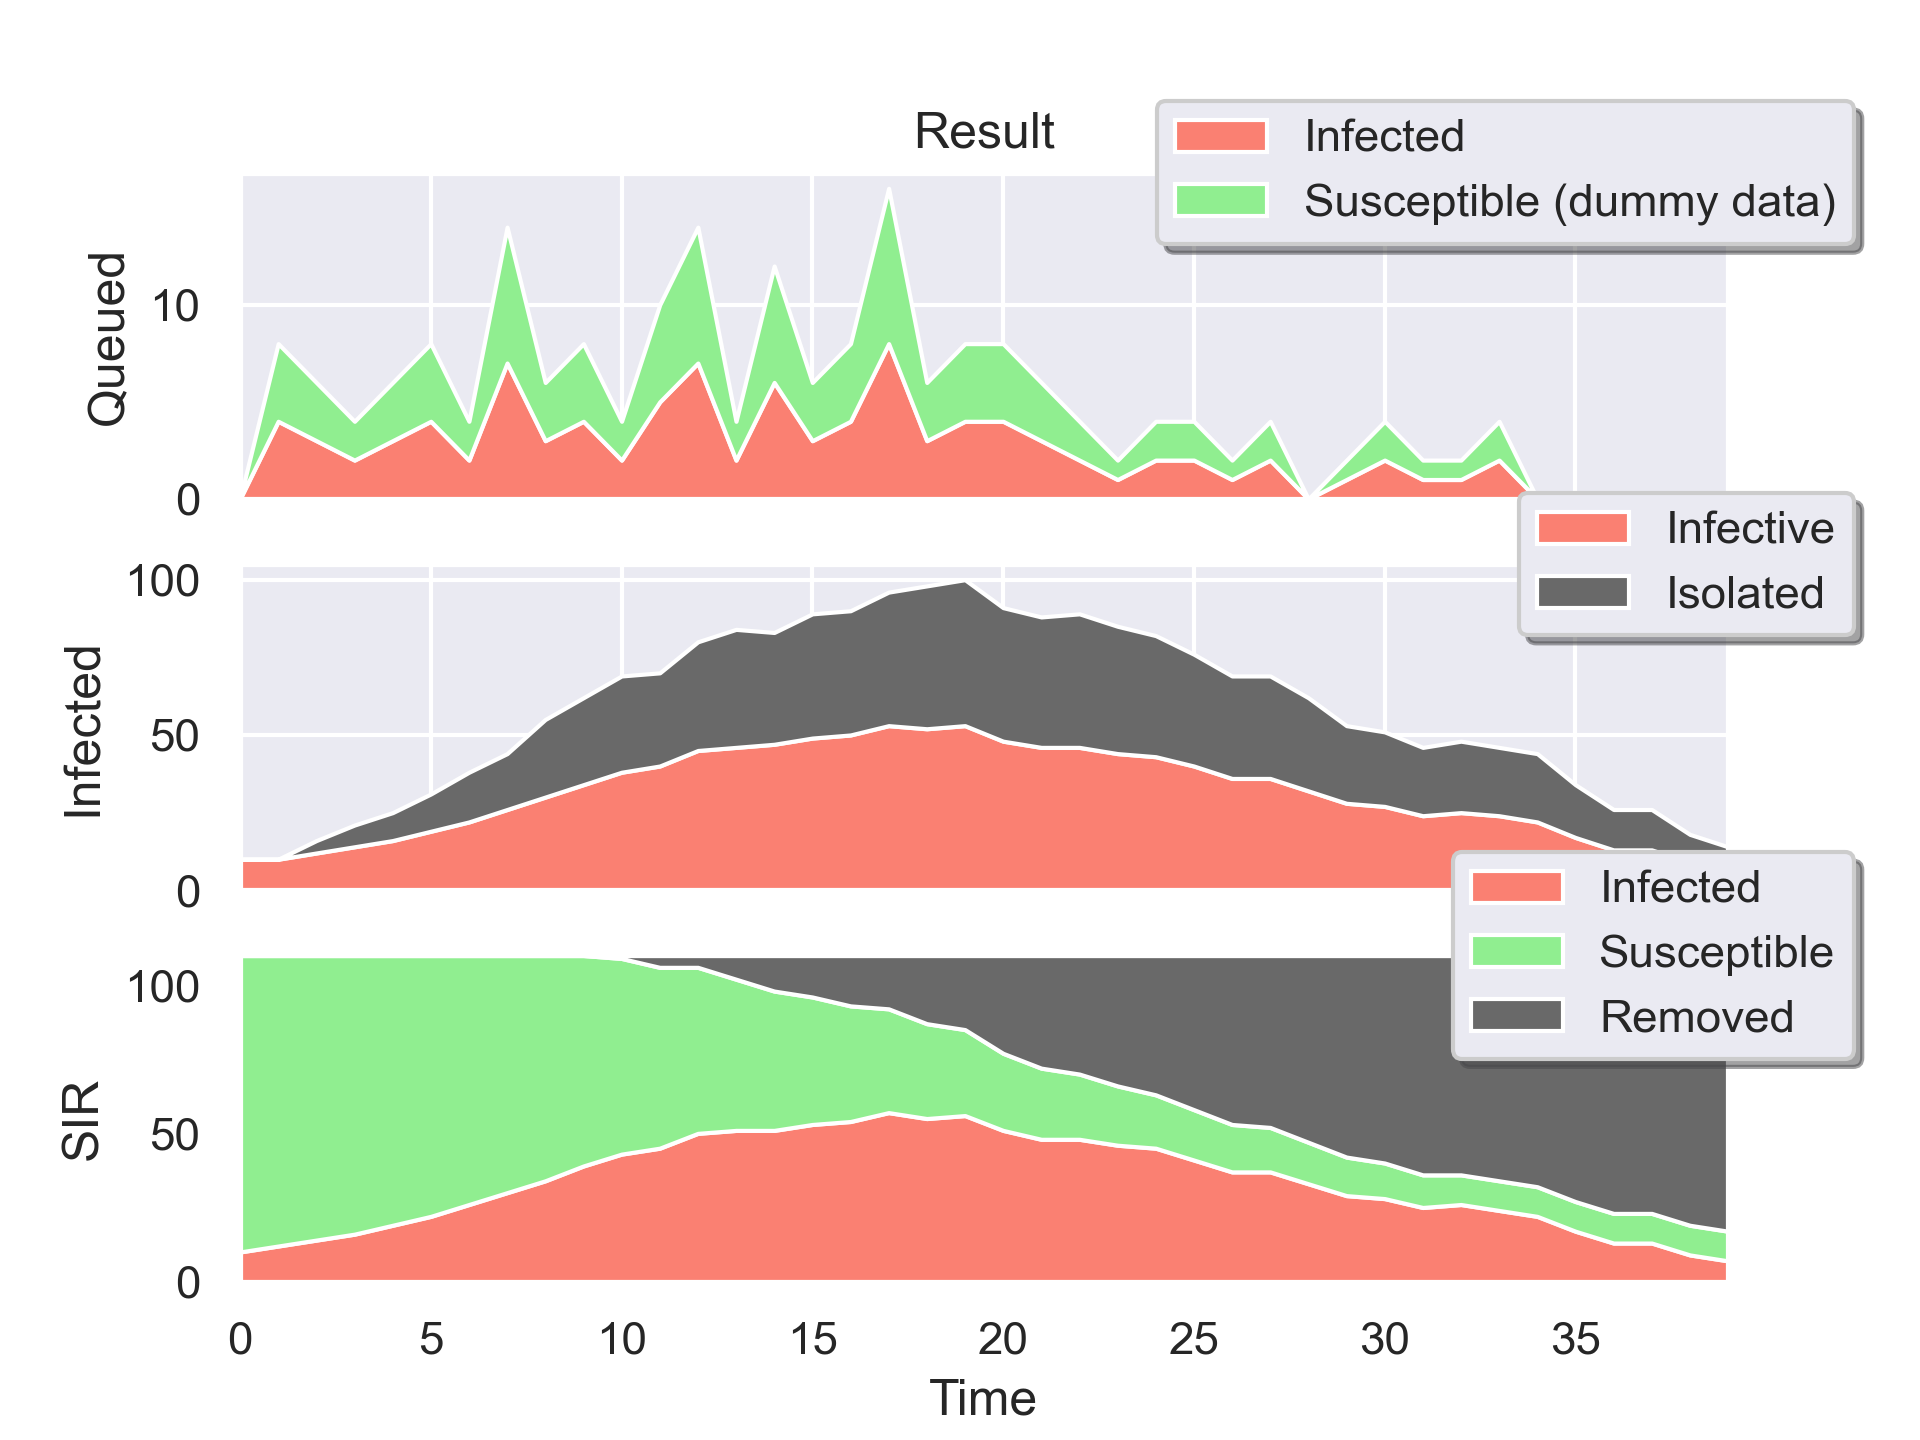
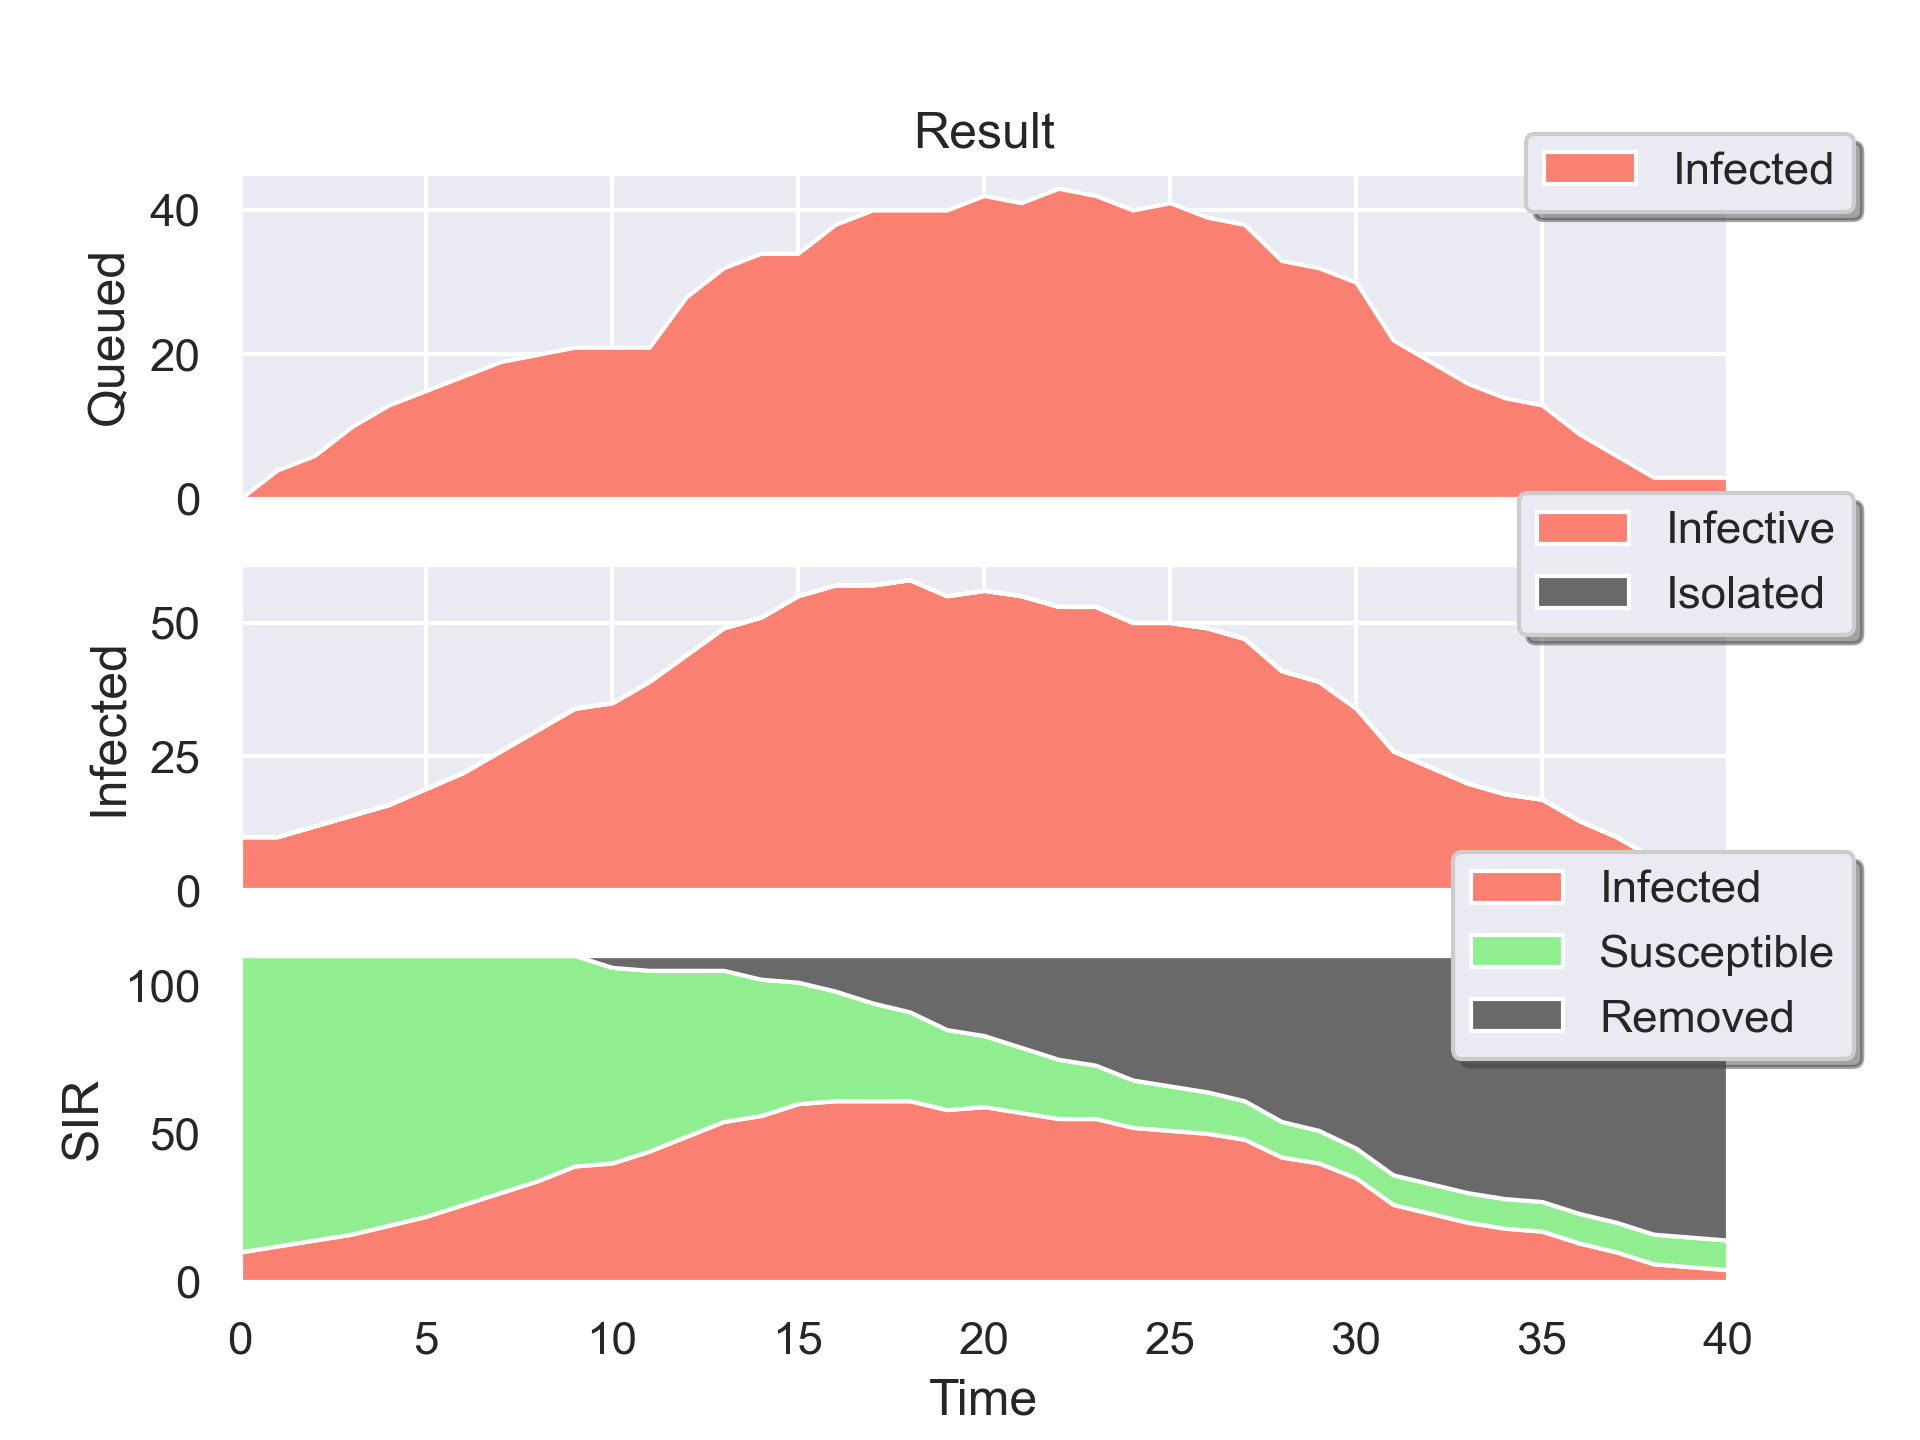
Remove timestep as option

diff --git a/model.py b/model.py
@@ -15,32 +15,35 @@ from model_id_state import ModelIdState
 
 
 class Model:
-    def __init__(self, duration=100, timeStep=1,  # days
+    def __init__(self, duration=100,  # days
                  susceptible=1000, infected=50, queued=0, removed=0,  # initial
                  rateSI=0.1,  # per timeStep
                  servers=5, serverMu=1, timeForTest=1,  # serverMu in days
                  pSymptomatic=.8, tSymptomatic=2, tRecovery=14,  # p-probability, t-time in  days
-                 balking=None, reneging=None
+                 seed=None  # Specify for consistent result
                  ):
-        self.Duration = duration
-        self.TimeStep = timeStep
-        self.NTimeSteps = int(duration/timeStep)
+        self.Duration = int(duration)
+        self.NTimeSteps = int(duration+1)
+
         self.InitialSusceptible = susceptible
         self.InitialInfected = infected
         self.InitialQueued = queued
         self.InitialRemoved = removed
+        self.TotalIndividuals = susceptible + infected + removed
         self.RateSI = rateSI
 
-        self.Servers = servers/timeStep
-        self.ServerMu = serverMu/timeStep
+        self.Servers = servers
+        self.ServerMu = serverMu
 
         self.PSymptomatic = pSymptomatic
-        self.TSymptomatic = tSymptomatic/timeStep
-        self.TRecovery = tRecovery/timeStep
+        self.TSymptomatic = tSymptomatic
+        self.TRecovery = tRecovery
 
-        self.TotalIndividuals = susceptible + infected + removed
         self.Results = None
         self.HasModelRun = False
+
+        if seed != None:
+            np.random.seed(seed)
 
         self.People = [Person("S", pSymptomatic, tSymptomatic, tRecovery)
                        for i in range(susceptible)] \
@@ -52,7 +55,7 @@ class Model:
                for i in range(removed)]
 
     def run(self):
-        ts = list(range(0, self.Duration, self.TimeStep))
+        ts = np.linspace(0, self.Duration, self.NTimeSteps)
 
         for person in self.People:
             person.Advance(0)
@@ -91,7 +94,7 @@ class Model:
             state.UpdateState(self)
 
             # Test
-            for id in queue.PopForTimeStep(self.TimeStep):
+            for id in queue.PopForOneDay():
                 self.People[id].Test(t)
 
             self.__addResults(results, state)
@@ -118,11 +121,11 @@ class Model:
 
         sns.set_theme(style="darkgrid")
 
+        # TODO: Plot expected wait time
         plt.subplot(3, 1, 1)
         plt.stackplot(self.Results['Time'],
-                      [self.Results['InfectedQueued'],
-                       self.Results['InfectedQueued']],
-                      labels=['Infected', 'Susceptible (dummy data)'],
+                      [self.Results['InfectedQueued']],
+                      labels=['Infected'],
                       colors=['salmon', 'lightgreen'])
         plt.legend(bbox_to_anchor=(1.1, 1), loc='right',
                    ncol=1, fancybox=True, shadow=True)

diff --git a/person.py b/person.py
@@ -1,4 +1,5 @@
 from poisson_randomizer import PoissonRandomizer
+import numpy as np
 
 
 class Person:
@@ -25,8 +26,9 @@ class Person:
         if self.Stage == "I":
             if (not self.IsInfective) and t >= self.InfectiveAt:
                 self.IsInfective = True
-            if (not self.IsSymptomatic) and t >= self.SymptomaticAt:
+            if self.WillShowSymptomps and (not self.IsSymptomatic) and t >= self.SymptomaticAt:
                 self.IsSymptomatic = True
+                self.WillShowSymptomps = None
                 if (not self.ShouldQueue):
                     (self.ShouldQueue) = True
             if t >= self.RecoverAt:
@@ -35,11 +37,12 @@ class Person:
     def Infect(self, t):
         self.Stage = "I"
         self.InfectiveAt = t+0
-        self.SymptomaticAt = t + \
-            self.PoissonRandomizer.fromMean(self.TSymptomatic)
         self.RecoverAt = t+self.PoissonRandomizer.fromMean(self.TRecovery)
-        # TODO: Randomize, some never gets symptomatic
-        # TODO: Relate mean T to timestep
+
+        self.WillShowSymptomps = np.random.rand() <= self.PSymptomatic
+        if self.WillShowSymptomps:
+            self.SymptomaticAt = t + \
+                self.PoissonRandomizer.fromMean(self.TSymptomatic)
 
     def Queue(self, t):
         self.ShouldQueue = False
@@ -48,21 +51,14 @@ class Person:
 
     def Recover(self, t):
         self.Stage = "R"
-        self.IsInfective = False
-        self.IsSymptomatic = False
-        self.IsQueued = False
-        self.IsIsolated = False
+        self.IsInfective = None
+        self.IsSymptomatic = None
+        self.IsQueued = None
+        self.IsIsolated = None
 
     def Test(self, t):
-        if self.Stage == "S":
-            # TODO: Implement
-            pass
-
         if self.Stage == "I":
             # TODO: Delay with time to get result
             self.IsInfective = False  # Can't infect since isolated
             self.IsQueued = False
             self.IsIsolated = True
-        if self.Stage == "R":
-            # TODO: Implement
-            pass

diff --git a/test_queue.py b/test_queue.py
@@ -1,29 +1,35 @@
 import queue
 import numpy as np
 
+from exp_randomizer import ExpRandomizer
+
 
 class TestQueue:
-    def __init__(self, servers, serverMu):
+    def __init__(self, servers, serverMu, prioritisation='FIFO'):
         # TODO: Use queue for advanced cases
         # self.Queue = queue.Queue()
+        self.ExpRandomizer = ExpRandomizer()
+        self.Prioritisation = prioritisation
 
         self.Queue = []
         self.Servers = servers
         self.ServerMu = serverMu
 
-        # TODO: Implement length and queue time
+        # TODO: Implement length and queue time getters
 
     def Put(self, id):
         self.Queue.append(id)
 
     def Pop(self):
-        return self.Queue.pop(0)
+        if self.Prioritisation == 'FIFO':
+            return self.Queue.pop(0)
+        if self.Prioritisation == 'LIFO':
+            return self.Queue.pop()
 
-    def PopForTimeStep(self, dt):
-        # TODO: Calc timestep in relation to serverMu
+    def PopForOneDay(self):
+        # TODO: Implement queue with ExpRandomizer
         nItems = len(self.Queue)
-        # TODO: Randomize
-        nItemsToPop = int(np.round(self.Servers*self.ServerMu*dt))
+        nItemsToPop = int(np.round(self.Servers*self.ServerMu))
         popped = []
 
         for _ in range(min(nItems, nItemsToPop)):

diff --git a/main.py b/main.py
@@ -6,9 +6,10 @@ def main():
     # model = Model(duration=365*2, timeStep=1, susceptible=1000,
     #               infected=1, removed=0, rateSI=0.05, rateIR=0.01)
 
-    model = Model(duration=40, timeStep=1, susceptible=100,
+    model = Model(duration=40, susceptible=100,
                   infected=10, removed=0, rateSI=.2,
-                  servers=1)
+                  servers=0,
+                  seed=None)
     model.run()
     model.plot()
 

diff --git a/exp_randomizer.py b/exp_randomizer.py
@@ -1,0 +1,9 @@
+import numpy as np
+
+
+class ExpRandomizer:
+    def __init__(self):
+        pass
+
+    def fromMean(self, mean):
+        return np.random.exponential(1/mean)
